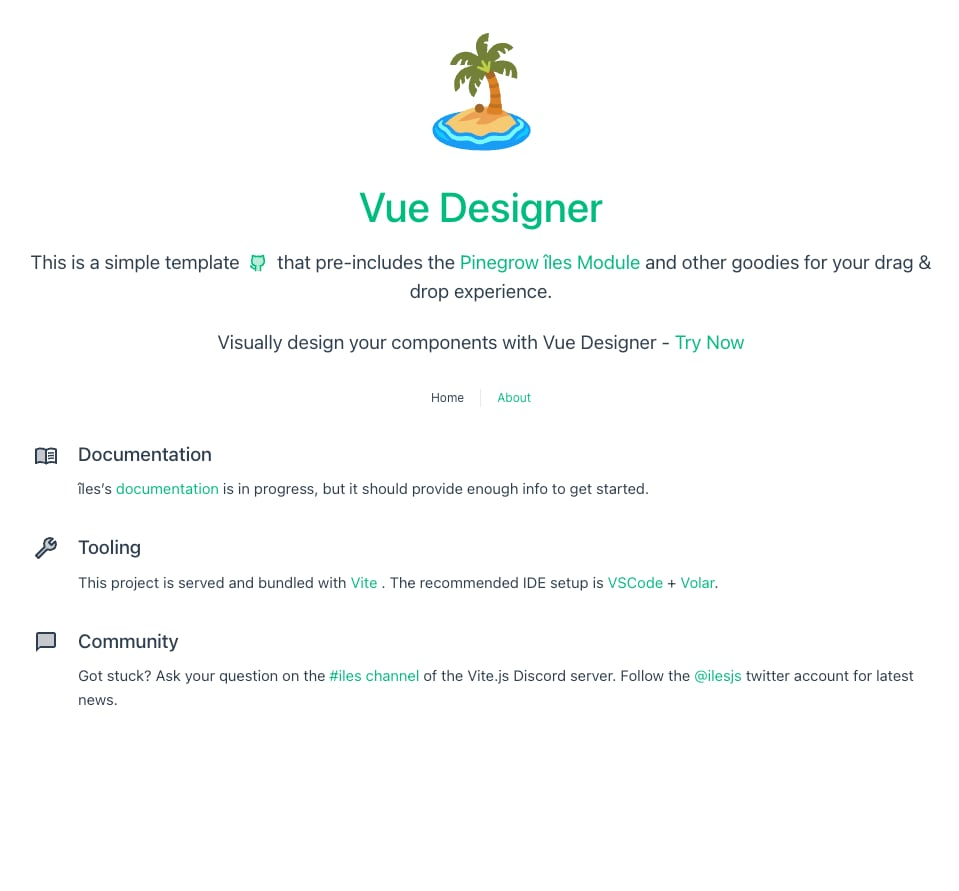
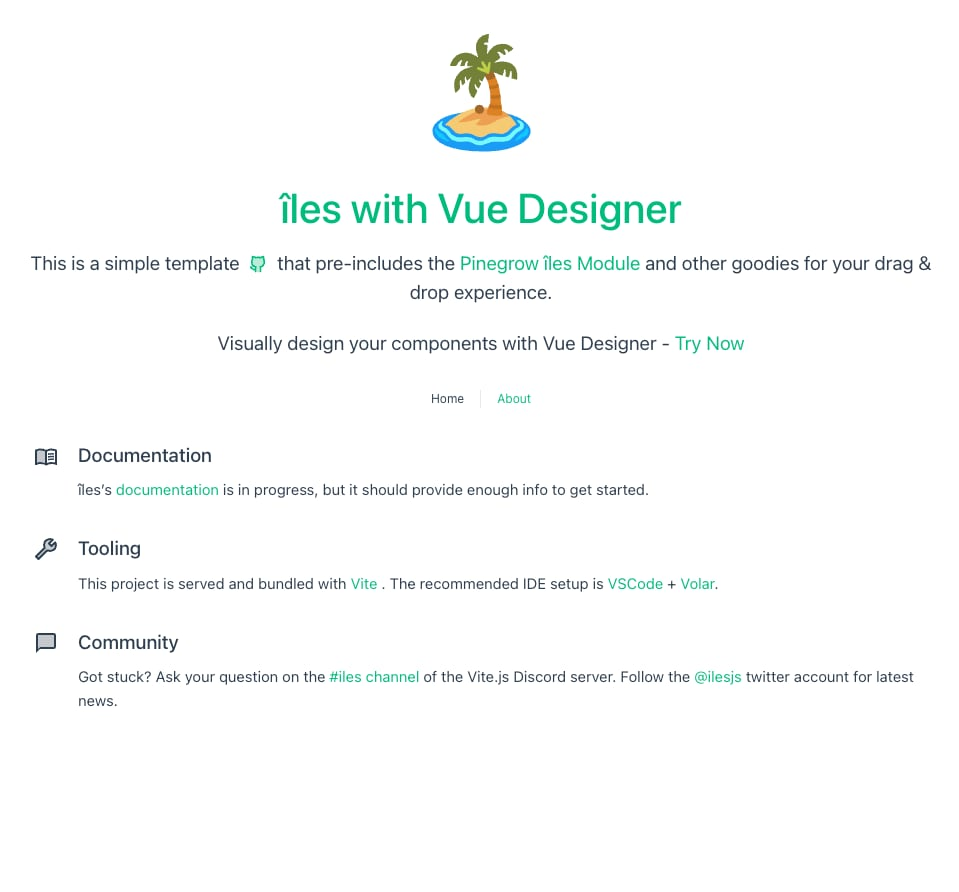
Updated screenshot

diff --git a/src/pages/index.vue b/src/pages/index.vue
@@ -1,5 +1,5 @@
 <page>
-    title: Vue Designer
+    title: îles with Vue Designer
 </page>
 <template>
   <main>
